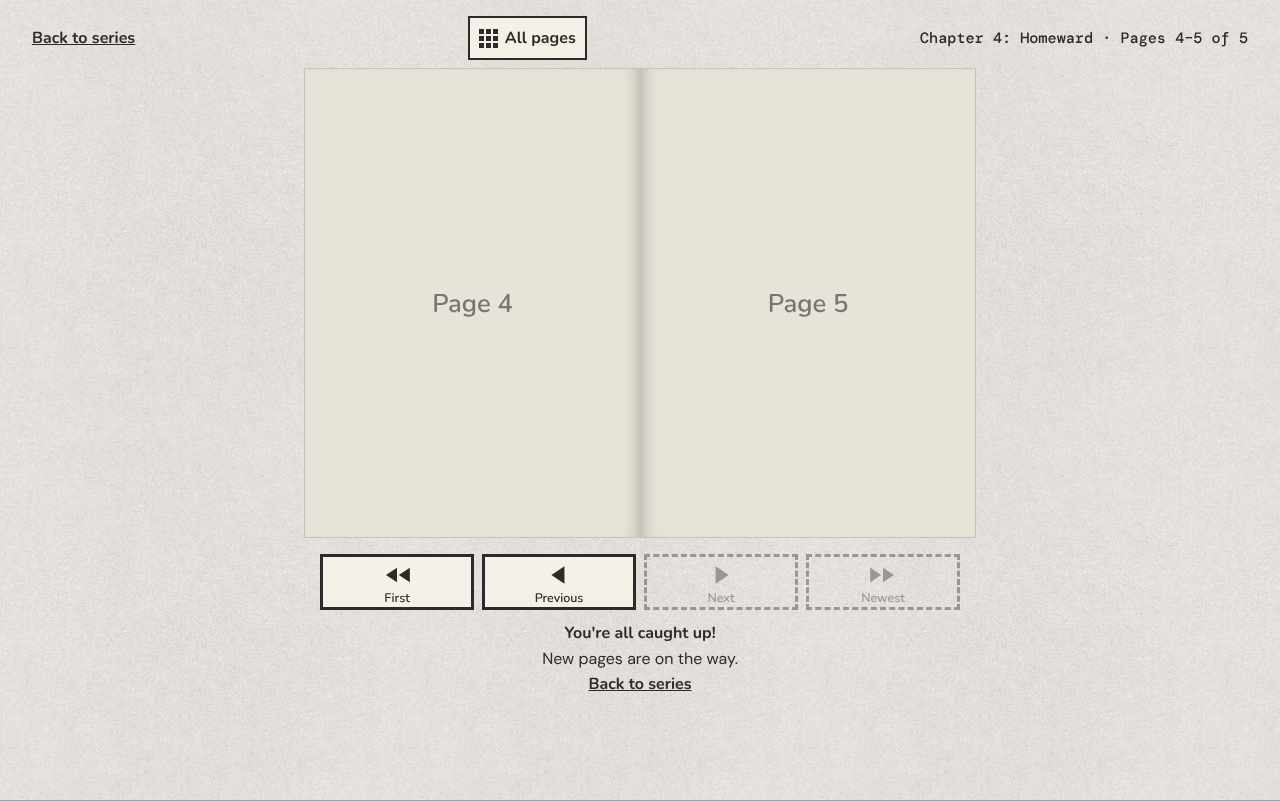
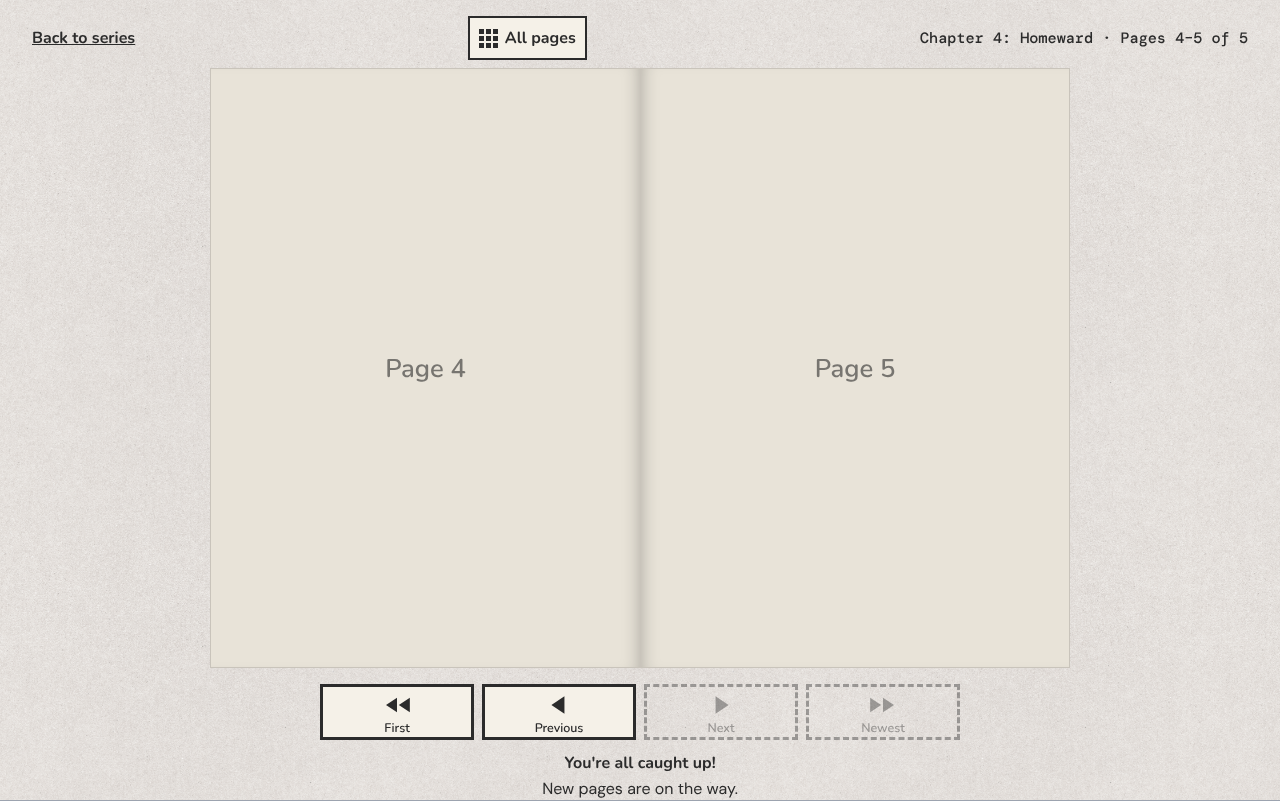
Keep the pages' size at the end of a comic (#137)
The lead's decision (2026-11-05): the newest pair or page keeps the size and
place of every other page; the end note sits under the controls, a short
scroll down on a laptop. Amends design-comic-spread-and-flip (Layout, mock-ups
6 and 10) and the spec's AC-7; the e2e check now compares the newest pair with
another pair (recorded under unlocks) and fails on the old code.

Claude-Session: https://claude.ai/code/session_01HWRLNSVAoX5Ni8d8XcwJh1

diff --git a/docs/design/mockups/comic-spread-and-flip/mockups.html b/docs/design/mockups/comic-spread-and-flip/mockups.html
@@ -147,11 +147,11 @@
 <div class="wrap"><h6>5 · Mid-turn on a laptop: page 7 turns over to the left around the spine, showing page 9 beneath; its back, page 8, lands on page 6 (about 0.4 seconds)</h6>
 <div class="screen wide scrolled" id="m5"><div class="reader"><div class="bar"><a href="#">Back to series</a><a class="allpages" href="#"><span class="grid-icon"><i></i><i></i><i></i><i></i><i></i><i></i><i></i><i></i><i></i></span>All pages</a><p class="loc">Chapter 2: The Long Road · Pages 6–7 of 12</p></div><div class="spread"><div class="side left"><div class="page">Page 6</div></div><div class="side right" style="position:relative"><div class="page" style="position:absolute;inset:0">Page 9</div><div class="page turning" style="width:100%">Page 7</div></div></div><nav class="controls"><a class="ctl"><span class="sym"><svg viewBox="0 0 32 24" width="30" height="22" aria-hidden="true"><path d="M30 4 L18 12 L30 20 Z M16 4 L4 12 L16 20 Z" fill="currentColor"/></svg></span><span class="cap">First</span></a><a class="ctl"><span class="sym"><svg viewBox="0 0 24 24" width="26" height="26" aria-hidden="true"><path d="M17 4 L5 12 L17 20 Z" fill="currentColor"/></svg></span><span class="cap">Previous</span></a><a class="ctl"><span class="sym"><svg viewBox="0 0 24 24" width="26" height="26" aria-hidden="true"><path d="M7 4 L19 12 L7 20 Z" fill="currentColor"/></svg></span><span class="cap">Next</span></a><a class="ctl"><span class="sym"><svg viewBox="0 0 32 24" width="30" height="22" aria-hidden="true"><path d="M2 4 L14 12 L2 20 Z M16 4 L28 12 L16 20 Z" fill="currentColor"/></svg></span><span class="cap">Newest</span></a></nav></div></div></div>
 
-<div class="wrap"><h6>6 · A chapter that ends on a left-hand page: the last page alone on the left; the end note under the controls</h6>
-<div class="screen wide scrolled" id="m6"><div class="reader"><div class="bar"><a href="#">Back to series</a><a class="allpages" href="#"><span class="grid-icon"><i></i><i></i><i></i><i></i><i></i><i></i><i></i><i></i><i></i></span>All pages</a><p class="loc">Chapter 4: Homeward · Page 6 of 6</p></div><div class="spread short"><div class="side left"><div class="page">Page 6</div></div><div class="side right"></div></div><nav class="controls"><a class="ctl"><span class="sym"><svg viewBox="0 0 32 24" width="30" height="22" aria-hidden="true"><path d="M30 4 L18 12 L30 20 Z M16 4 L4 12 L16 20 Z" fill="currentColor"/></svg></span><span class="cap">First</span></a><a class="ctl"><span class="sym"><svg viewBox="0 0 24 24" width="26" height="26" aria-hidden="true"><path d="M17 4 L5 12 L17 20 Z" fill="currentColor"/></svg></span><span class="cap">Previous</span></a><span class="ctl off"><span class="sym"><svg viewBox="0 0 24 24" width="26" height="26" aria-hidden="true"><path d="M7 4 L19 12 L7 20 Z" fill="currentColor"/></svg></span><span class="cap">Next</span></span><span class="ctl off"><span class="sym"><svg viewBox="0 0 32 24" width="30" height="22" aria-hidden="true"><path d="M2 4 L14 12 L2 20 Z M16 4 L28 12 L16 20 Z" fill="currentColor"/></svg></span><span class="cap">Newest</span></span></nav><div class="end"><p><b>You're all caught up!</b></p><p>New pages are on the way.</p><a href="#" style="font:700 1rem Nunito,sans-serif;color:#2b2b2b">Back to series</a></div></div></div></div>
+<div class="wrap"><h6>6 · A chapter that ends on a left-hand page: the last page alone on the left, the same size as every page; the end note under the controls, a short scroll down</h6>
+<div class="screen wide scrolled" id="m6"><div class="reader"><div class="bar"><a href="#">Back to series</a><a class="allpages" href="#"><span class="grid-icon"><i></i><i></i><i></i><i></i><i></i><i></i><i></i><i></i><i></i></span>All pages</a><p class="loc">Chapter 4: Homeward · Page 6 of 6</p></div><div class="spread"><div class="side left"><div class="page">Page 6</div></div><div class="side right"></div></div><nav class="controls"><a class="ctl"><span class="sym"><svg viewBox="0 0 32 24" width="30" height="22" aria-hidden="true"><path d="M30 4 L18 12 L30 20 Z M16 4 L4 12 L16 20 Z" fill="currentColor"/></svg></span><span class="cap">First</span></a><a class="ctl"><span class="sym"><svg viewBox="0 0 24 24" width="26" height="26" aria-hidden="true"><path d="M17 4 L5 12 L17 20 Z" fill="currentColor"/></svg></span><span class="cap">Previous</span></a><span class="ctl off"><span class="sym"><svg viewBox="0 0 24 24" width="26" height="26" aria-hidden="true"><path d="M7 4 L19 12 L7 20 Z" fill="currentColor"/></svg></span><span class="cap">Next</span></span><span class="ctl off"><span class="sym"><svg viewBox="0 0 32 24" width="30" height="22" aria-hidden="true"><path d="M2 4 L14 12 L2 20 Z M16 4 L28 12 L16 20 Z" fill="currentColor"/></svg></span><span class="cap">Newest</span></span></nav><div class="end"><p><b>You're all caught up!</b></p><p>New pages are on the way.</p><a href="#" style="font:700 1rem Nunito,sans-serif;color:#2b2b2b">Back to series</a></div></div></div></div>
 
-<div class="wrap"><h6>10 · The newest page in a pair: on a laptop, pages 4 and 5 show, so Next and Newest can't be used and the end note shows; on a phone, page 4 still has Next</h6>
-<div class="screen wide scrolled" id="m10"><div class="reader"><div class="bar"><a href="#">Back to series</a><a class="allpages" href="#"><span class="grid-icon"><i></i><i></i><i></i><i></i><i></i><i></i><i></i><i></i><i></i></span>All pages</a><p class="loc">Chapter 4: Homeward · Pages 4–5 of 5</p></div><div class="spread short"><div class="side left"><div class="page">Page 4</div></div><div class="side right"><div class="page">Page 5</div></div></div><nav class="controls"><a class="ctl"><span class="sym"><svg viewBox="0 0 32 24" width="30" height="22" aria-hidden="true"><path d="M30 4 L18 12 L30 20 Z M16 4 L4 12 L16 20 Z" fill="currentColor"/></svg></span><span class="cap">First</span></a><a class="ctl"><span class="sym"><svg viewBox="0 0 24 24" width="26" height="26" aria-hidden="true"><path d="M17 4 L5 12 L17 20 Z" fill="currentColor"/></svg></span><span class="cap">Previous</span></a><span class="ctl off"><span class="sym"><svg viewBox="0 0 24 24" width="26" height="26" aria-hidden="true"><path d="M7 4 L19 12 L7 20 Z" fill="currentColor"/></svg></span><span class="cap">Next</span></span><span class="ctl off"><span class="sym"><svg viewBox="0 0 32 24" width="30" height="22" aria-hidden="true"><path d="M2 4 L14 12 L2 20 Z M16 4 L28 12 L16 20 Z" fill="currentColor"/></svg></span><span class="cap">Newest</span></span></nav><div class="end"><p><b>You're all caught up!</b></p><p>New pages are on the way.</p><a href="#" style="font:700 1rem Nunito,sans-serif;color:#2b2b2b">Back to series</a></div></div></div></div>
+<div class="wrap"><h6>10 · The newest page in a pair: on a laptop, pages 4 and 5 show, so Next and Newest can't be used and the end note shows under the controls; the pages keep their size; on a phone, page 4 still has Next</h6>
+<div class="screen wide scrolled" id="m10"><div class="reader"><div class="bar"><a href="#">Back to series</a><a class="allpages" href="#"><span class="grid-icon"><i></i><i></i><i></i><i></i><i></i><i></i><i></i><i></i><i></i></span>All pages</a><p class="loc">Chapter 4: Homeward · Pages 4–5 of 5</p></div><div class="spread"><div class="side left"><div class="page">Page 4</div></div><div class="side right"><div class="page">Page 5</div></div></div><nav class="controls"><a class="ctl"><span class="sym"><svg viewBox="0 0 32 24" width="30" height="22" aria-hidden="true"><path d="M30 4 L18 12 L30 20 Z M16 4 L4 12 L16 20 Z" fill="currentColor"/></svg></span><span class="cap">First</span></a><a class="ctl"><span class="sym"><svg viewBox="0 0 24 24" width="26" height="26" aria-hidden="true"><path d="M17 4 L5 12 L17 20 Z" fill="currentColor"/></svg></span><span class="cap">Previous</span></a><span class="ctl off"><span class="sym"><svg viewBox="0 0 24 24" width="26" height="26" aria-hidden="true"><path d="M7 4 L19 12 L7 20 Z" fill="currentColor"/></svg></span><span class="cap">Next</span></span><span class="ctl off"><span class="sym"><svg viewBox="0 0 32 24" width="30" height="22" aria-hidden="true"><path d="M2 4 L14 12 L2 20 Z M16 4 L28 12 L16 20 Z" fill="currentColor"/></svg></span><span class="cap">Newest</span></span></nav><div class="end"><p><b>You're all caught up!</b></p><p>New pages are on the way.</p><a href="#" style="font:700 1rem Nunito,sans-serif;color:#2b2b2b">Back to series</a></div></div></div></div>
 
 <div class="wrap"><h6>12 · A phone held sideways, on a two-page spread: the picture fills the width; the controls are below it, a short scroll away</h6>
 <div class="screen landscape scrolled" id="m12"><div class="reader"><div class="bar"><a href="#">Back to series</a><a class="allpages" href="#"><span class="grid-icon"><i></i><i></i><i></i><i></i><i></i><i></i><i></i><i></i><i></i></span>All pages</a><p class="loc">Chapter 2: The Long Road · Page 5 of 12 · two-page spread</p></div><div class="page" style="width:100%;height:560px">Page 5 (spread)</div><nav class="controls"><a class="ctl"><span class="sym"><svg viewBox="0 0 32 24" width="30" height="22" aria-hidden="true"><path d="M30 4 L18 12 L30 20 Z M16 4 L4 12 L16 20 Z" fill="currentColor"/></svg></span><span class="cap">First</span></a><a class="ctl"><span class="sym"><svg viewBox="0 0 24 24" width="26" height="26" aria-hidden="true"><path d="M17 4 L5 12 L17 20 Z" fill="currentColor"/></svg></span><span class="cap">Previous</span></a><a class="ctl"><span class="sym"><svg viewBox="0 0 24 24" width="26" height="26" aria-hidden="true"><path d="M7 4 L19 12 L7 20 Z" fill="currentColor"/></svg></span><span class="cap">Next</span></a><a class="ctl"><span class="sym"><svg viewBox="0 0 32 24" width="30" height="22" aria-hidden="true"><path d="M2 4 L14 12 L2 20 Z M16 4 L28 12 L16 20 Z" fill="currentColor"/></svg></span><span class="cap">Newest</span></a></nav></div></div></div>

diff --git a/tests/e2e/comic-spread-and-flip.spec.ts b/tests/e2e/comic-spread-and-flip.spec.ts
@@ -128,7 +128,18 @@ test('comic-reader-spread-and-flip#AC-4 AC-7 the newest page in a pair', async (
   await expect(page.getByText("You're all caught up!")).toBeVisible();
   const back = page.locator('.reader__end a', { hasText: 'Back to series' });
   await expect(back).toBeVisible();
-  expect(await back.evaluate((a) => a.getBoundingClientRect().bottom <= window.innerHeight)).toBe(true);
+  // The pages keep the size and place they have on every other pair (the lead's decision, 2026-11-05).
+  // Measured from the reader's top, since a shorter page can't always scroll the reader to the top.
+  const inReader = (alt: string) =>
+    page.getByRole('img', { name: alt, exact: true }).evaluate((img) => {
+      const r = img.getBoundingClientRect();
+      return { top: r.top - img.closest('.reader')!.getBoundingClientRect().top, height: r.height };
+    });
+  const atEnd = await inReader('The road.');
+  await page.goto(`${BOOK}/2/1`);
+  const before = await inReader('Morning.');
+  expect(Math.abs(atEnd.height - before.height)).toBeLessThanOrEqual(1);
+  expect(Math.abs(atEnd.top - before.top)).toBeLessThanOrEqual(1);
 
   await page.setViewportSize(PHONE);
   await page.goto(`${BOOK}/2/3`);

diff --git a/docs/specs/comic-reader-spread-and-flip.md b/docs/specs/comic-reader-spread-and-flip.md
@@ -4,6 +4,7 @@ tests-commit: 361da635dbf727c09cabbdc05507b53bc424b53d
 unlocks:
   - tests/e2e/comic-spread-and-flip.spec.ts: three corrections found by the first run against the build. The pair-layout accessibility check counted a moderate heading-order finding in the site's footer; it now counts serious and critical findings, like the other reader tests. The sideways-phone check wanted the spread within 40 px of the window's width, but the site's side margins are wider; it now compares with the reader's own width. The flip recorder read a transition's types before the page's handler had added them; it now reads them once the transition is ready. The criteria are unchanged.
   - tests/unit/comic-spreads-edges.test.ts (new): mutation testing showed nothing checked a pair's announcement in a series without chapter names, blank or missing alt text in a pair, a page alone that isn't before a spread, or reading a picture's size from its asset id. Added; the criteria are unchanged.
+  - tests/e2e/comic-spread-and-flip.spec.ts: the AC-7 check that the end note fits on the first screen became a check that the newest pair's pages keep the size and place of any other pair, after the lead's decision of 2026-11-05 that pages never change size at the end. AC-7 was amended to match.
 ---
 
 # Comic reader: two-page spreads and the page-flip
@@ -34,7 +35,7 @@ Source: S1.n and S2.n are the two stories' nth criteria; design and docs section
 | AC-4 | Every page is still built at `/comics/<series>/<chapter>/<page>`; on a wide screen it shows its group. Each reader page carries both sets of links and states and the width test picks one, with no script: wide **Next** goes to the first page of the next group (into the next chapter after a chapter's last group), wide **Previous** to the first page of the previous group; **First** and **Newest** keep their addresses and are unusable on a wide screen when the group holds the series' first or newest page; the end note shows when the group holds the newest page. Arrow keys, swipes and the edge arrows follow the set that shows. | test: unit "wide links", "wide controls"; e2e "a link opens its pair", "turning by pairs", "the newest page in a pair", "no script" | S1.5, S1.6; design-comic-spread-and-flip#page-addresses, #flow-a-fan |
 | AC-5 | The location line reads "Pages 2–3 of 12" for a pair (after the chapter label as before) and "Page 5 of 12 · two-page spread" for a spread page, on both views. A pair is announced as "Chapter 2: The Long Road, pages 2 and 3 of 12." then each page's alt text, left first; a spread page as "…, page 5 of 12, two-page spread." then its alt text. The end note follows, as before, when it shows. | test: unit "location", "announcements"; e2e "a link opens its pair" | S1.6; design-comic-spread-and-flip#accessibility |
 | AC-6 | On a wide screen, **Previous** and **Next** keep their captions; their full names are "Previous pages" and "Next pages" when they lead to a pair, and "Previous page" and "Next page" when they lead to a page alone or a spread. | test: unit "wide controls" | design-comic-spread-and-flip#accessibility |
-| AC-7 | A pair shows two pages of the same height, meeting at the spine with a shadow down the middle; a page alone sits on its own side with the other side empty; a spread covers both sides with no shadow. In a pair, each page is its own image with its own alt text, left before right. The edge arrows sit at the outer edges. On the newest group, the pages are shortened so the end note and its **Back to series** are on the first screen of a 1280 × 800 window. | test: e2e "pair layout", "the newest page in a pair" | S1.1, S1.3, S1.4; design-comic-spread-and-flip#layout |
+| AC-7 | A pair shows two pages of the same height, meeting at the spine with a shadow down the middle; a page alone sits on its own side with the other side empty; a spread covers both sides with no shadow. In a pair, each page is its own image with its own alt text, left before right. The edge arrows sit at the outer edges. On the newest group, the pages keep the size and place they have on every other group, and the end note follows the controls. | test: e2e "pair layout", "the newest page in a pair" | S1.1, S1.3, S1.4; design-comic-spread-and-flip#layout |
 | AC-8 | On a narrow screen a spread page is shrunk to fit like every page. In portrait, "Turn your phone sideways to see it bigger." shows under it, hidden from screen readers; in landscape, the hint is gone and the spread fills the width. | test: e2e "a spread on a phone" | S1.3; design-comic-spread-and-flip#how-it-works |
 | AC-9 | On a contact sheet, a spread's picture is twice as wide (two of the three places on a phone), numbered "5 · spread", its link named "Page 5, two-page spread" (then ": " and its alt text, if any). | test: unit "sheet"; e2e "a spread on the sheet" | S1.6; design-comic-spread-and-flip#flow-a-fan |
 | AC-10 | In the editor, a spread page shows in the pages grid marked "Two-page spread". In the page panel, under the tick box: on a spread that leaves the page before it alone, "This chapter opens on the right, so page 4 shows alone on the left, before this spread." ("on the left" for a chapter opening on the left); on a picture wider than tall that isn't ticked, "This picture is wider than it is tall. Is it a two-page spread? If so, tick Two-page spread; otherwise it shows small, on one side." | test: unit "editor notes" | design-comic-spread-and-flip#flow-star, #states-and-errors |

diff --git a/docs/design/comic-spread-and-flip.md b/docs/design/comic-spread-and-flip.md
@@ -102,7 +102,7 @@ Revised after a persona walkthrough. -->
 - **A spread page:** one picture across both sides, the width of two pages, no shadow (mock-up 3).
 - **The bar and the controls** stay where they are now. "Pages 2–3 of 12" replaces "Page 2 of 12" for a pair.
 - **The edge arrows** (design-comic-turn-pages, wide screens, mouse only) sit at the outer edges of the pair or the spread.
-- **On the newest pair or page**, the pages are shortened so that the end note and its **Back to series** fit on the first screen of an 800 px tall laptop (mock-ups 6 and 10).
+- **On the newest pair or page**, the pages keep the same size and place as on every other page; the end note and its **Back to series** sit under the controls, a short scroll down on a laptop (mock-ups 6 and 10). The lead's decision (2026-11-05): the pages never change size at the end.
 
 ## States and errors
 
@@ -142,7 +142,7 @@ A walkthrough for persona-fan and persona-artist (2026-11-05), which opened ever
   - the width test in text-size units, for 200% text;
   - "pages" in the controls' full names only for a pair;
   - the edge arrows at the pair's outer edges;
-  - the end note on the first screen.
+  - the end note on the first screen (since replaced: the lead decided the pages keep their size at the end, 2026-11-05).
 
 ## Mock-ups
 
